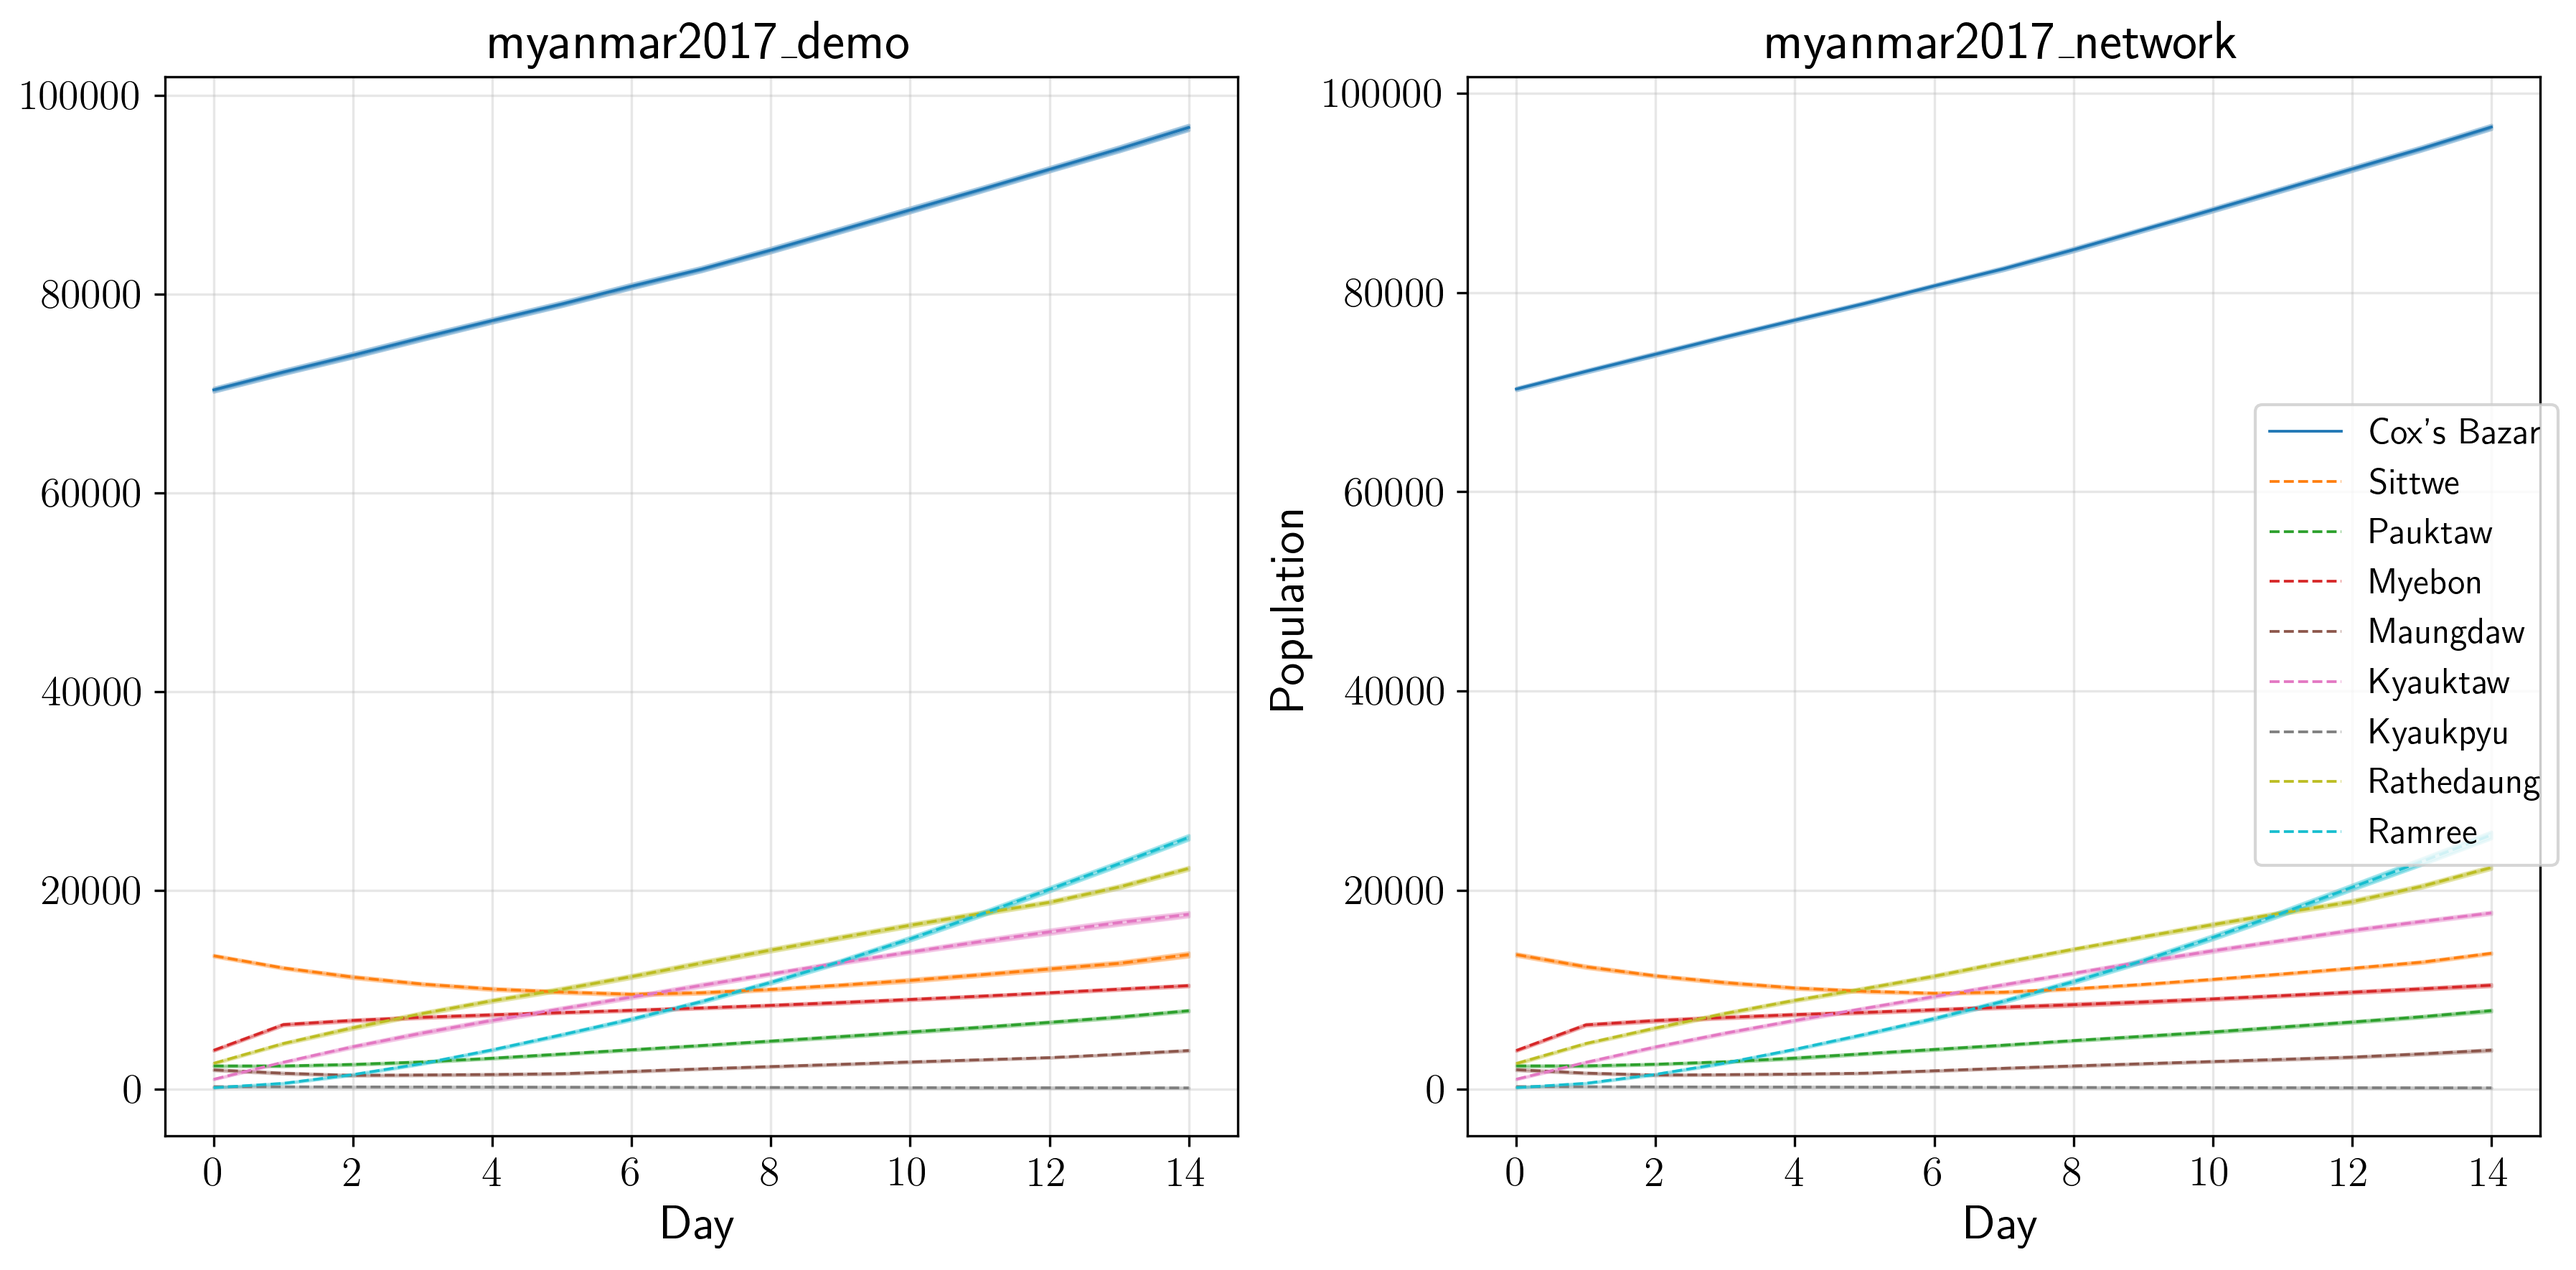
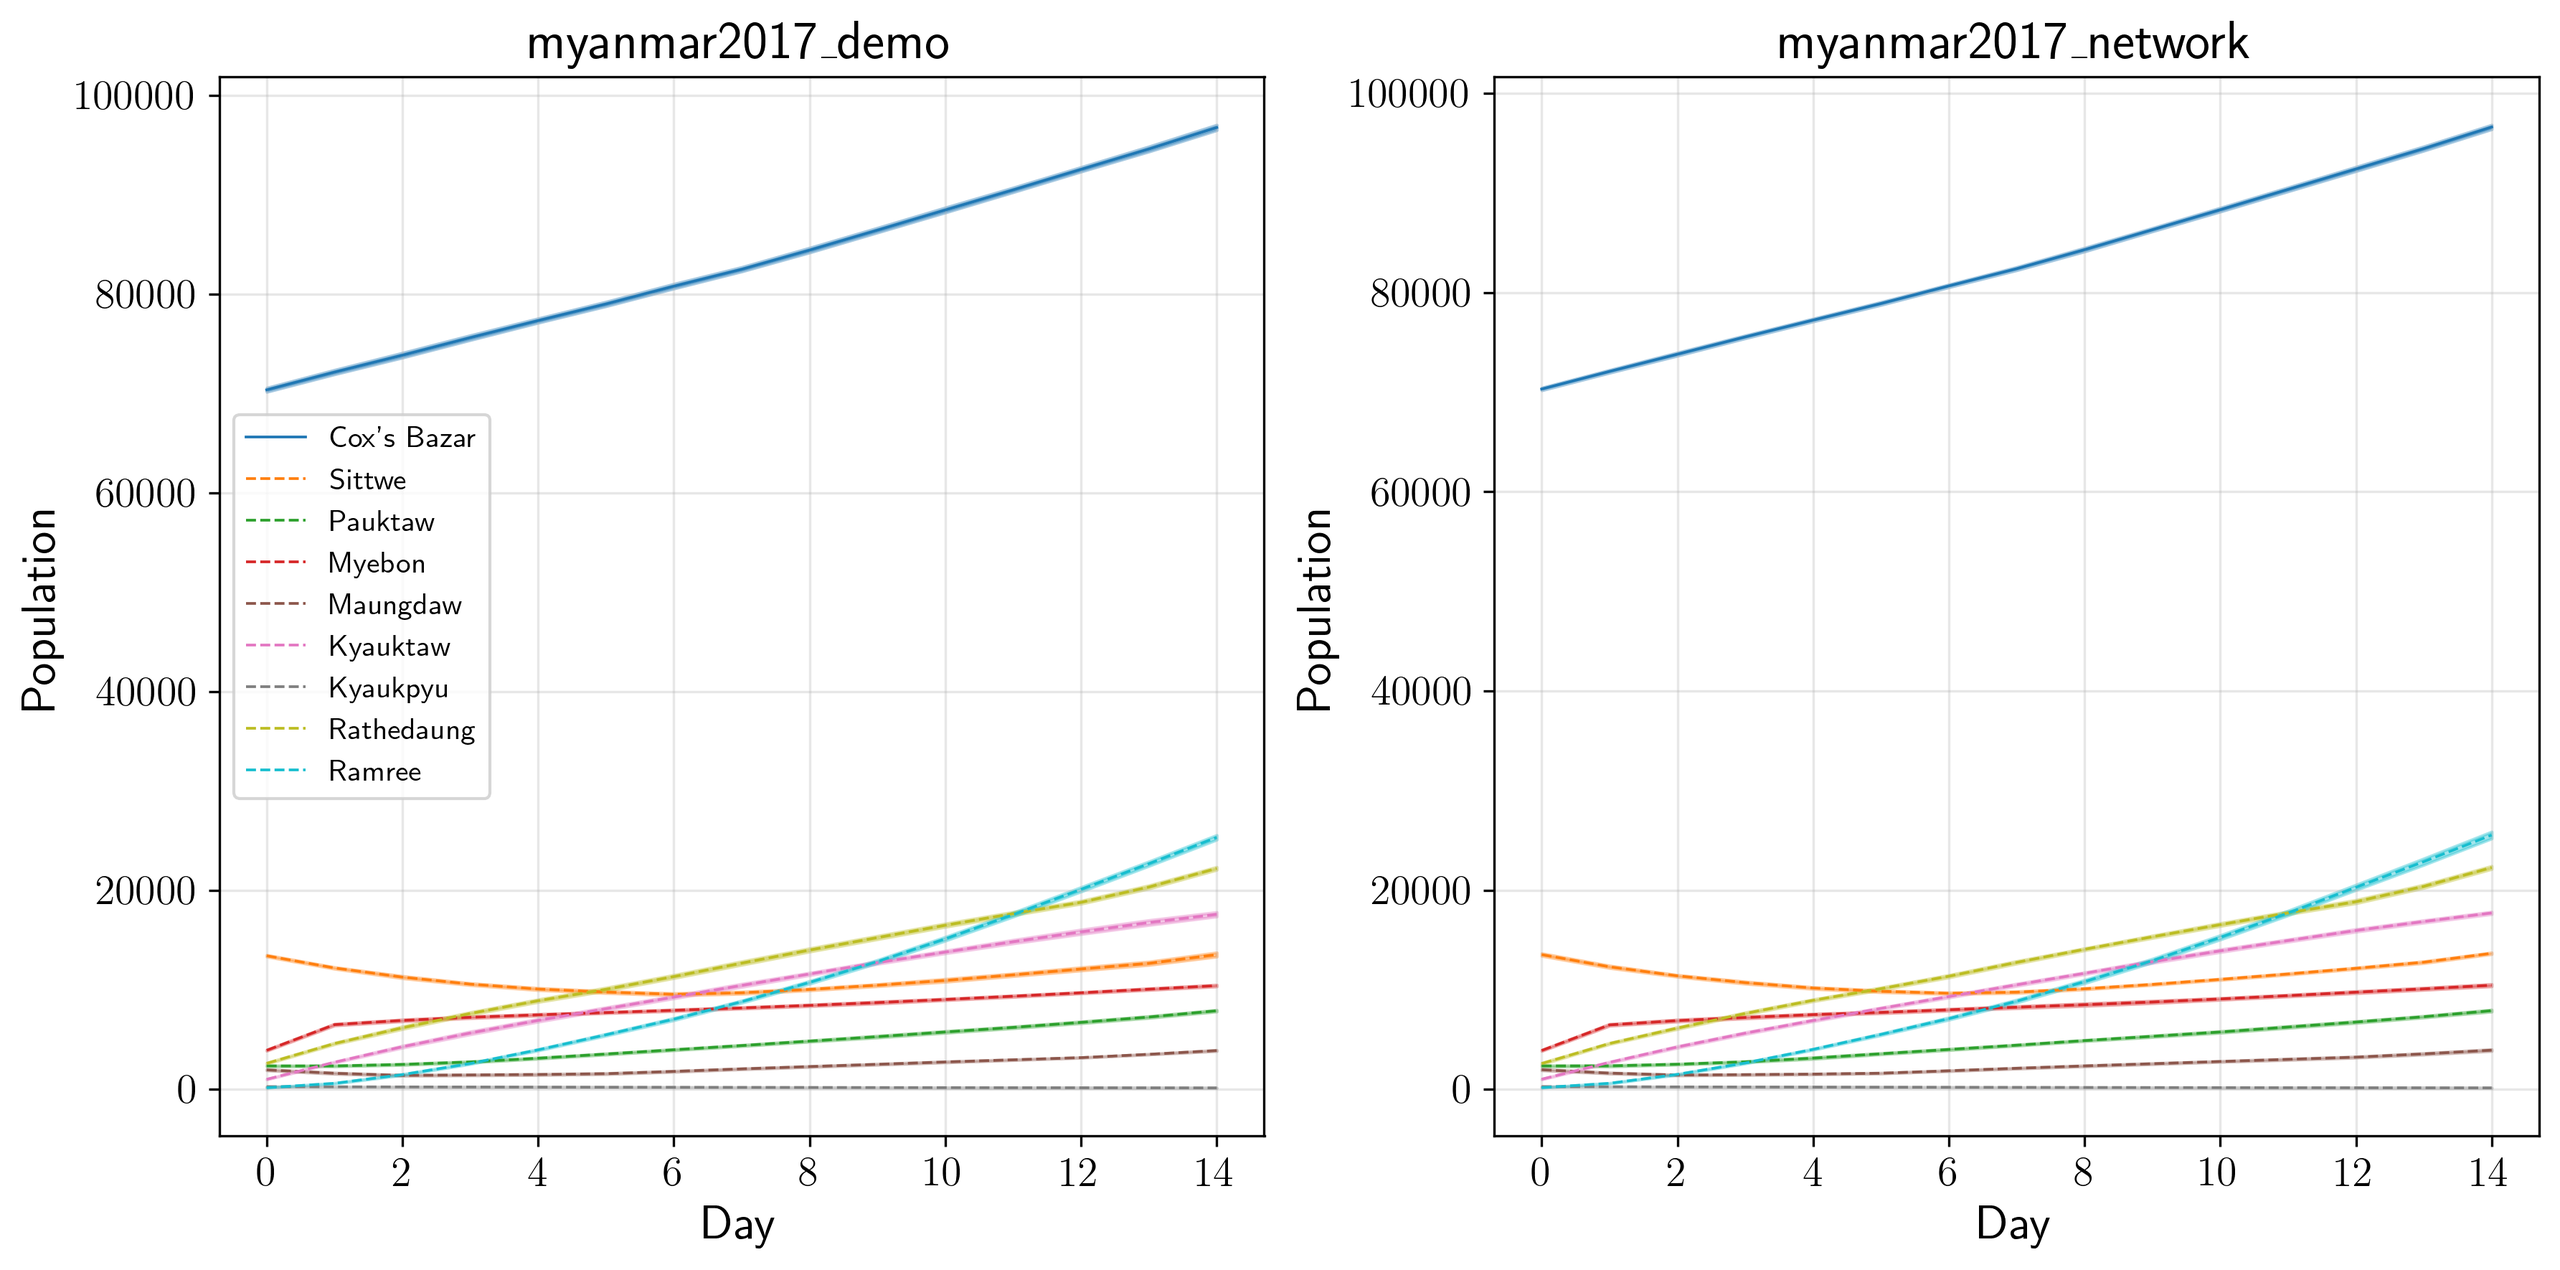
fixed script file name, redid transition prob plot

diff --git a/scripts/plot_transition_probability.py b/scripts/plot_transition_probability.py
@@ -16,19 +16,30 @@ def plot_transition_probability(data):
 
     # Create the plot
     plt.figure(figsize=(8, 5))
-    plt.plot(x, mean, label='Mean Transition Probability', color='blue')
-    plt.fill_between(x, mean - std, mean + std, color='blue', alpha=0.2, label='Standard Deviation')
+    
+    # Create bar plot with error bars
+    bars = plt.bar(x, mean, yerr=std, capsize=5, color='skyblue', 
+                   edgecolor='navy', linewidth=1.2, alpha=1)
+    
+    # Add value labels on top of bars
+    for i, (bar, mean_val, std_val) in enumerate(zip(bars, mean, std)):
+        plt.text(bar.get_x() + bar.get_width()/2, bar.get_height() + std_val + 0.0005,
+                f'{mean_val:.4f}', ha='center', va='bottom', fontsize=15, fontweight='bold')
 
-    # Add labels, title, and legend
-    plt.xlabel('Model', fontsize=14)
-    plt.ylabel('Transition Probability', fontsize=14)
+    # Add labels, title, and formatting
+    plt.xlabel('Model', fontsize=17)
+    plt.ylabel('Transition Probability', fontsize=17)
     # plt.title('Transition Probability')
-    plt.xticks(fontsize=12)
-    plt.yticks(fontsize=12)
-    plt.legend()
+    plt.xticks(fontsize=15, rotation=0)
+    plt.yticks(fontsize=15)
+
+    # Set y-axis limits to better show the differences
+    y_min = min(mean - std) * 0.995
+    y_max = max(mean + std) * 1.01
+    plt.ylim(y_min, y_max)
 
     # Save or show the plot
-    plt.grid(True, alpha=0.3)
+    plt.grid(True, alpha=0.3, axis='y')
     plt.tight_layout()
     plt.savefig('plots/png/transition_probability_plot.png', dpi=300, bbox_inches='tight')  # Save the plot
     plt.show()  # Show the plot

diff --git a/scripts/plot_religion_from_file.py b/scripts/plot_religion_from_file.py
@@ -226,20 +226,20 @@ def plot_camp_vs_idpcamps():
                 legend_elements.append(line[0])
                 legend_labels_added.add(place)
         
-        if i != 0:
-            ax.set_ylabel("Population", fontsize=16)
-        
+        ax.set_ylabel("Population", fontsize=16)
         ax.set_xlabel("Day", fontsize=16)
         ax.set_title(f"{instance_name}", fontsize=18)
         ax.grid(True, alpha=0.3)
         ax.tick_params(axis='x', labelsize=14)
         ax.tick_params(axis='y', labelsize=14)
 
+    axes[0].legend(legend_elements, all_places, loc="center left", fontsize=10)
+
     # Create shared legend positioned outside the plots
     # plt.legend(legend_elements, all_places, 
     #            loc='lower right', fontsize=12, bbox_to_anchor=(0.7, 0.8))
-    fig.legend(legend_elements, all_places,
-               loc="center right", fontsize=12)
+    # fig.legend(legend_elements, all_places,
+            #    loc="center right", fontsize=10, bbox_to_anchor=(1.5, 1))
 
     # Add overall title
     # fig.suptitle("Camp vs IDP Camps Comparison", fontsize=18, y=0.98)
@@ -263,5 +263,5 @@ def plot_camp_vs_idpcamps():
 # Run the function
 if __name__ == "__main__":
     # plot_coxs_bazar_comparison()
-    plot_camp_vs_all_idpcamps()
-    # plot_camp_vs_idpcamps()
+    # plot_camp_vs_all_idpcamps()
+    plot_camp_vs_idpcamps()
